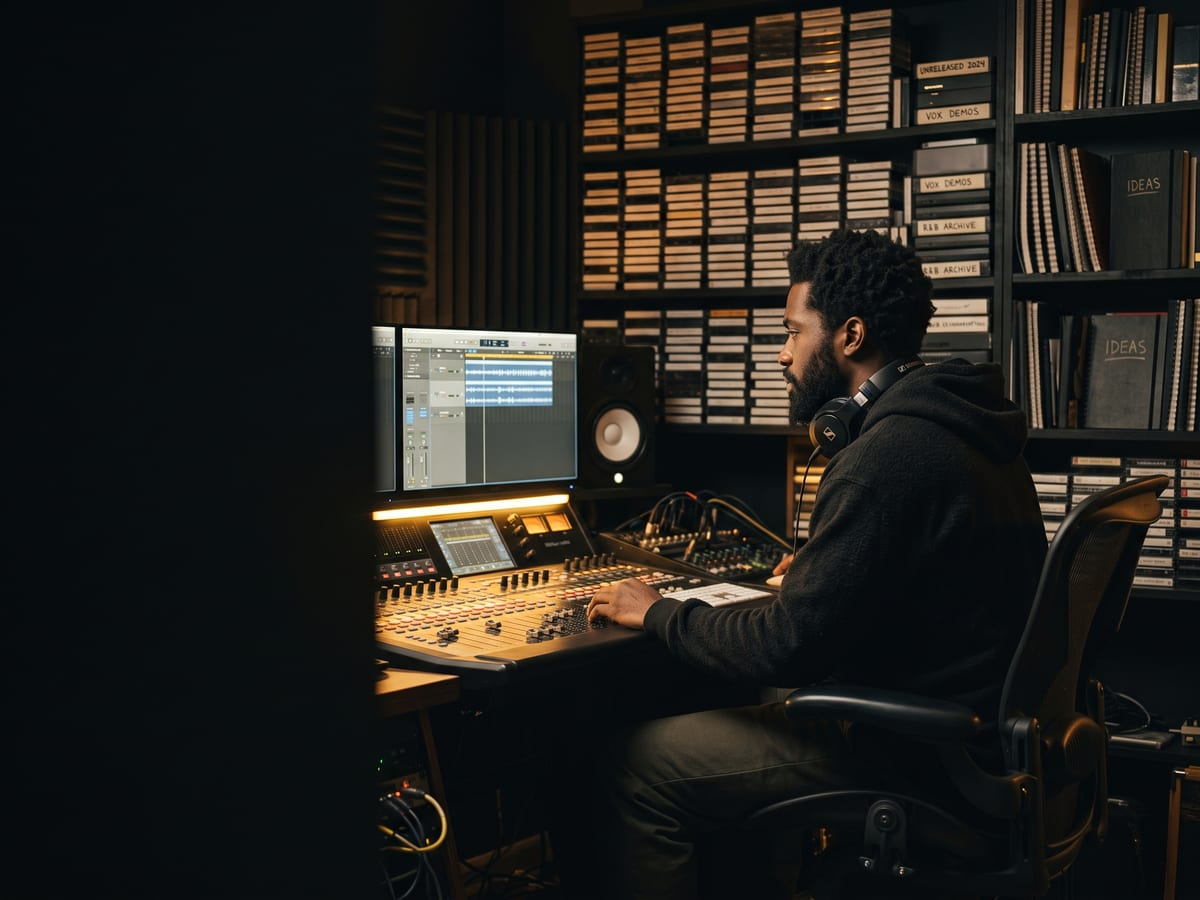
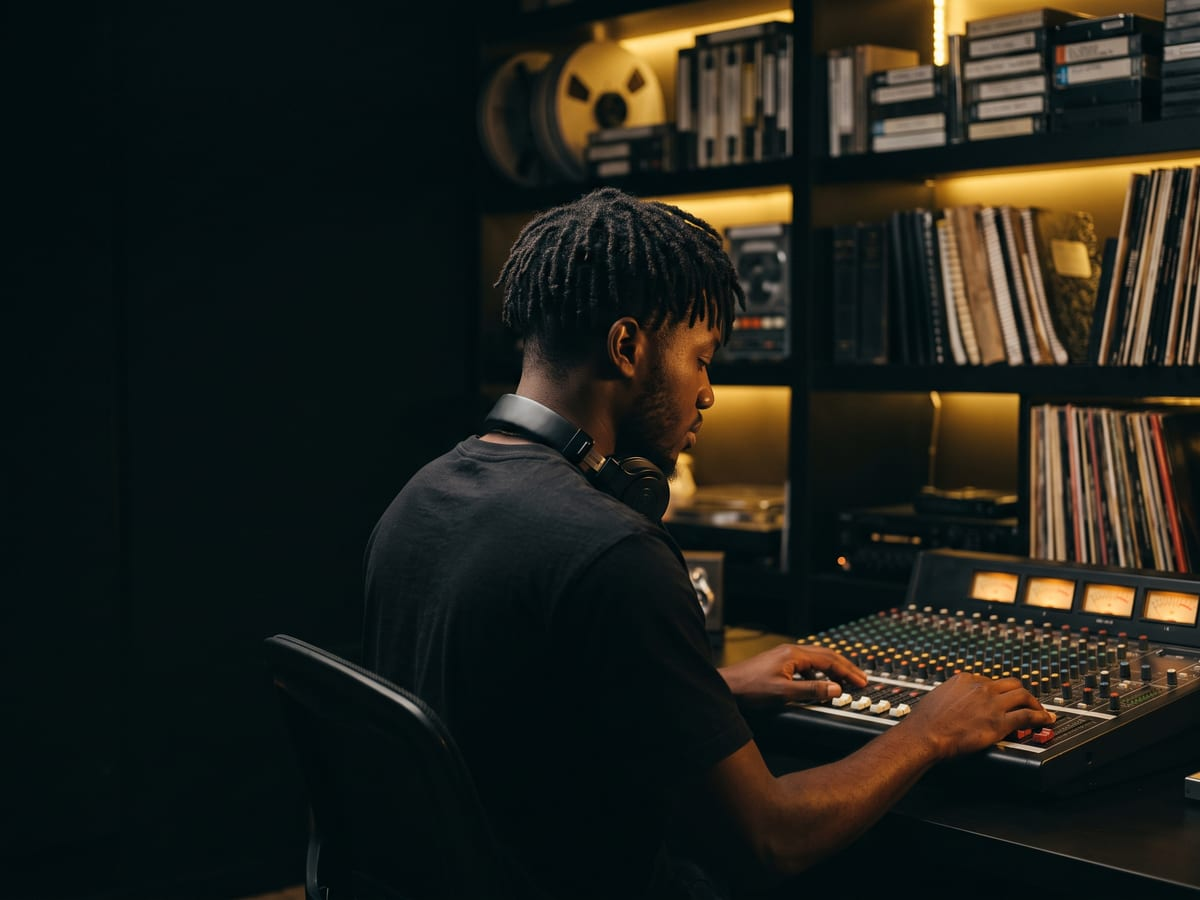
Tools directory: photo thumbnails; loss-framed copy; younger Vault subject
- /tools and /artist/tools cards now use the hero photo as the thumbnail instead of
  the emoji icon.
- Copy reframed from what the artist GAINS by acting to what they LOSE by not acting
  (loss aversion), across all 4 heroes, all 4 card descriptions, and the directory intro.
- Vault hero regenerated: the first subject read mid-30s, brand rule is a Black hip hop
  or R&B artist aged 18-32.
- CLAUDE.md: added the loss-framing copy rule and the brand photo rule.

CTA re-measured in Chrome after the longer headlines. Still above the fold on all 4
tools at 1440x800, 1280x720, 375x667 and 390x844 (tightest: 78px to spare on iPhone SE).

diff --git a/src/lib/leadMagnets/registry.ts b/src/lib/leadMagnets/registry.ts
@@ -11,7 +11,7 @@ const VAULT_REVENUE_PLANNER: LeadMagnetConfig = {
   name: 'Vault Revenue Planner',
   featureName: 'Artist Vault',
   category: 'Monetize',
-  description: 'Turn the unreleased music sitting on your phone into a recurring supporter Vault.',
+  description: 'See what the unreleased music sitting on your phone is costing you every month.',
   videoAngle: 'You already have enough unreleased content to launch a paid fan Vault. It is making nothing on your hard drive.',
   publicRoute: '/tools/vault-revenue-planner',
   artistRoute: '/artist/tools/vault-revenue-planner',
@@ -19,8 +19,8 @@ const VAULT_REVENUE_PLANNER: LeadMagnetConfig = {
   timeToComplete: '3 min',
   hero: {
     eyebrow: 'Artist Vault',
-    headline: 'You already have a paid Vault. It is on your phone.',
-    subheadline: 'Answer a few questions and get a real 30-day Vault plan: what to drop, how often, and what to charge.',
+    headline: 'The music on your phone is earning you nothing.',
+    subheadline: 'Every demo, voice memo and unreleased track you sit on is money your supporters would already be paying you. See what sitting on it costs you, and get a 30-day plan to release it.',
     primaryCta: 'Plan my Vault',
     image: '/tool-vault.jpg',
     imageAlt: 'An artist in a dim studio surrounded by shelves of unreleased music',
@@ -85,7 +85,7 @@ const PROOF_OF_DEMAND: LeadMagnetConfig = {
   name: 'Proof of Demand Test Builder',
   featureName: 'Proof of Demand',
   category: 'Validate',
-  description: 'Test fan demand before you spend on merch, shows, videos, or products.',
+  description: 'Stop funding merch, shows and products that nobody was going to buy.',
   videoAngle: 'Do not spend first and hope fans buy later. Make fans prove demand before you commit a dollar.',
   publicRoute: '/tools/proof-of-demand-test-builder',
   artistRoute: '/artist/tools/proof-of-demand-test-builder',
@@ -93,8 +93,8 @@ const PROOF_OF_DEMAND: LeadMagnetConfig = {
   timeToComplete: '2 min',
   hero: {
     eyebrow: 'Proof of Demand',
-    headline: 'Stop guessing. Make fans prove it.',
-    subheadline: 'Build a demand test in two minutes: a clear idea, a threshold, and a deadline. If fans show up, you build it.',
+    headline: 'You find out nobody wanted it after you have already paid for it.',
+    subheadline: 'Guessing is what kills the merch run, the tour date and the deluxe. Make fans prove demand first, so you never fund another drop that nobody shows up for.',
     primaryCta: 'Build my demand test',
     image: '/tool-proof-of-demand.jpg',
     imageAlt: 'An artist in a dark studio checking his phone, weighing whether fans really want it',
@@ -156,7 +156,7 @@ const FAN_MISSION: LeadMagnetConfig = {
   name: 'Fan Mission Generator',
   featureName: 'Fan Missions',
   category: 'Engage',
-  description: 'Turn a vague ask into one clear, trackable fan mission with a goal, deadline, and reward.',
+  description: 'Stop losing the fans who would have helped if you had asked them properly.',
   videoAngle: 'Most artists tell fans to support them with no specific action. One clear mission is easier to complete and to measure.',
   publicRoute: '/tools/fan-mission-generator',
   artistRoute: '/artist/tools/fan-mission-generator',
@@ -164,8 +164,8 @@ const FAN_MISSION: LeadMagnetConfig = {
   timeToComplete: '2 min',
   hero: {
     eyebrow: 'Fan Missions',
-    headline: 'One clear mission beats "please support me."',
-    subheadline: 'Turn your goal into a single action, a target number, and a reward your fans can actually complete.',
+    headline: '"Please support me" is why your fans do nothing.',
+    subheadline: 'A vague ask gets scrolled past, and the fans who would have shown up for you never do. Turn your goal into one action, one number and one reward they can actually complete.',
     primaryCta: 'Generate my mission',
     image: '/tool-fan-mission.jpg',
     imageAlt: 'An artist on stage reaching out to clasp the hand of a fan in the crowd',
@@ -246,7 +246,7 @@ const CLIP_TO_EARN: LeadMagnetConfig = {
   name: 'Clip-to-Earn Campaign Planner',
   featureName: 'Clip-to-Earn',
   category: 'Grow',
-  description: 'Turn your content into a structured fan clipping campaign with rules, moments, and rewards.',
+  description: 'Stop letting fan clips grow somebody else\'s page instead of yours.',
   videoAngle: 'Your fans are already reposting clips. Give them the right moments, rules, tracking, and reward.',
   publicRoute: '/tools/clip-to-earn-campaign-planner',
   artistRoute: '/artist/tools/clip-to-earn-campaign-planner',
@@ -254,8 +254,8 @@ const CLIP_TO_EARN: LeadMagnetConfig = {
   timeToComplete: '3 min',
   hero: {
     eyebrow: 'Clip-to-Earn',
-    headline: 'Your fans are already clipping you. Direct it.',
-    subheadline: 'Build a clip-to-earn campaign: the best moments, the rules, and the reward that gets fans posting.',
+    headline: 'Your fans are clipping you. You are getting nothing back.',
+    subheadline: 'Undirected clips die in somebody else\'s feed and you never see the reach or the revenue. Build a campaign so every clip points back at you.',
     primaryCta: 'Plan my campaign',
     image: '/tool-clip-to-earn.jpg',
     imageAlt: 'A phone on a tripod filming an artist performing under a gold ring light',

diff --git a/src/components/lead-magnets/LeadMagnetDirectory.tsx b/src/components/lead-magnets/LeadMagnetDirectory.tsx
@@ -2,6 +2,7 @@
 
 import { useEffect, useMemo, useState } from 'react';
 import { useRouter } from 'next/navigation';
+import Image from 'next/image';
 import { Search } from 'lucide-react';
 import { LEAD_MAGNETS } from '@/lib/leadMagnets/registry';
 import { LM_EVENTS, trackLeadMagnet } from '@/lib/leadMagnets/analytics';
@@ -36,7 +37,7 @@ export function LeadMagnetDirectory({ basePath, context }: { basePath: string; c
       <div className="mb-6">
         <h1 className="text-2xl font-bold text-crwn-text">{context === 'artist' ? 'Artist tools' : 'CRWN artist tools'}</h1>
         <p className="text-sm text-crwn-text-secondary mt-1">
-          Free tools to plan your next move. Build a result, then bring it into CRWN.
+          Free tools that show you what you are leaving on the table. See the gap, then close it inside CRWN.
         </p>
       </div>
 
@@ -58,9 +59,17 @@ export function LeadMagnetDirectory({ basePath, context }: { basePath: string; c
               <button
                 key={m.slug}
                 onClick={() => router.push(`${basePath}/${m.slug}`)}
-                className="w-full flex items-start gap-3 rounded-2xl bg-crwn-surface border border-crwn-elevated p-4 text-left hover:border-crwn-gold/40"
+                className="w-full flex items-center gap-4 rounded-2xl bg-crwn-surface border border-crwn-elevated p-4 text-left hover:border-crwn-gold/40"
               >
-                <span className="text-2xl shrink-0">{m.icon}</span>
+                <span className="relative w-16 h-16 sm:w-20 sm:h-20 shrink-0 rounded-xl overflow-hidden border border-crwn-elevated">
+                  <Image
+                    src={m.hero.image}
+                    alt={m.hero.imageAlt}
+                    fill
+                    sizes="80px"
+                    className="object-cover"
+                  />
+                </span>
                 <span className="min-w-0">
                   <span className="block text-base font-semibold text-crwn-text">{m.name}</span>
                   <span className="block text-sm text-crwn-text-secondary mt-0.5">{m.description}</span>

diff --git a/public/sw.js b/public/sw.js
@@ -1,4 +1,4 @@
-const CACHE_NAME = 'crwn-v192';
+const CACHE_NAME = 'crwn-v193';
 const STATIC_ASSETS = [
   '/favicon.ico',
   '/icon-192x192.png',

diff --git a/CLAUDE.md b/CLAUDE.md
@@ -19,6 +19,21 @@ exit/X/back controls and its on-success redirect must return the user to that `r
 fall back to the old route only when returnTo is absent. Use `smartBack(router, fallback)`
 for back/X controls so they return to the actual previous page.
 
+## Copy Rule — lead with the LOSS, not the gain
+
+Artist-facing marketing copy (lead magnet heroes, tool cards, landing pages) must be framed
+around **what the artist loses by not doing it**, not what they gain by doing it. Loss aversion,
+not upside. Gain-framed: "One clear mission beats 'please support me.'" Loss-framed (correct):
+"'Please support me' is why your fans do nothing." Name the cost of inaction (money not earned,
+fans not converted, reach going to someone else) first, then the fix.
+
+## Brand Photos — dark + gold, artists aged 18-32
+
+Photos must be cinematic and on-brand: near-black charcoal (#0D0D0D) with warm gold (#D4AF37)
+accent light. People are optional, but anyone shown must be a Black (African American) hip hop or
+R&B artist who reads as **age 18 to 32**. State the age explicitly in the generation prompt, or
+the model drifts middle-aged. Always look at the image before shipping it.
+
 ## Copy Rule — NEVER use em dashes
 
 NEVER use an em dash (—) in ANY user-facing copy, anywhere, ever: UI strings, emails, web/marketing pages, notifications, button labels, tooltips, error messages, docs — all of it. This applies to everything new you write and anything you edit. Do not substitute an en dash (–) either. Rewrite instead: split into two short sentences (also better for readability), or use a comma, colon, or parentheses. Example: "Your front door — the easiest yes" becomes "Your front door: the easiest yes". (Hyphens in compound words like "one-time" are fine; this rule is about the dash punctuation between clauses.)
@@ -239,4 +254,4 @@ New artists do NOT get the old dashboard tour first. They flow **signup → `/we
 
 ## Completion Signal
 When you finish a task, always run this as your final bash command:
-powershell.exe '[System.Media.SystemSounds]::Exclamation.Play()'
+powershell.exe '(New-Object Media.SoundPlayer "C:\Windows\Media\Ring05.wav").PlaySync()'
